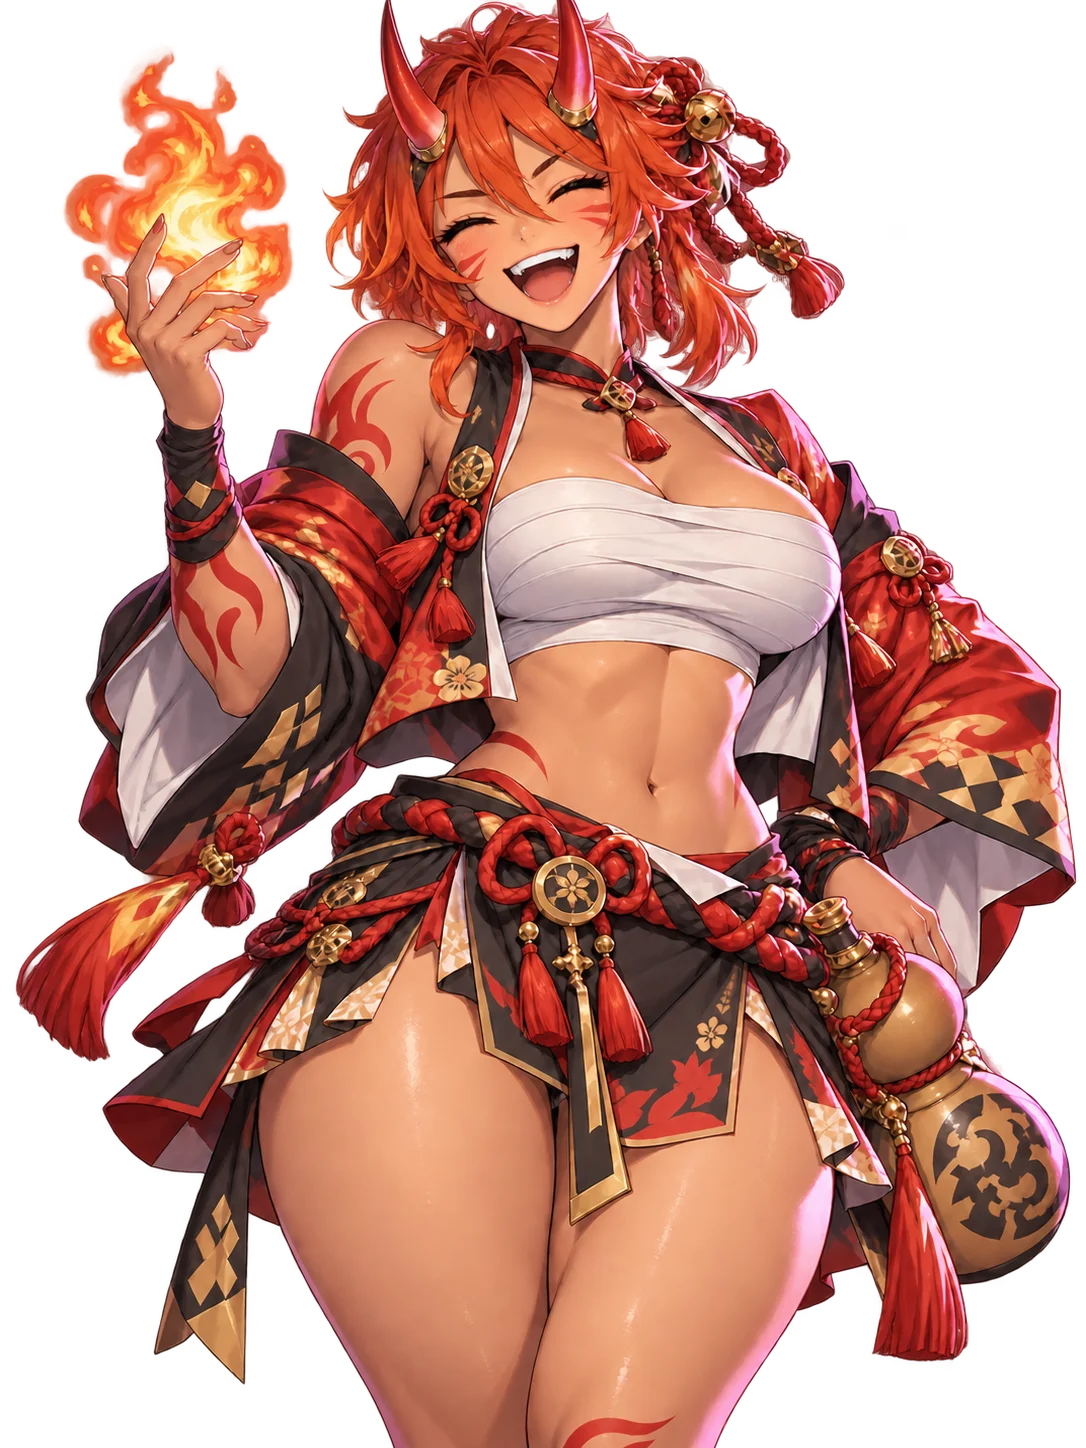
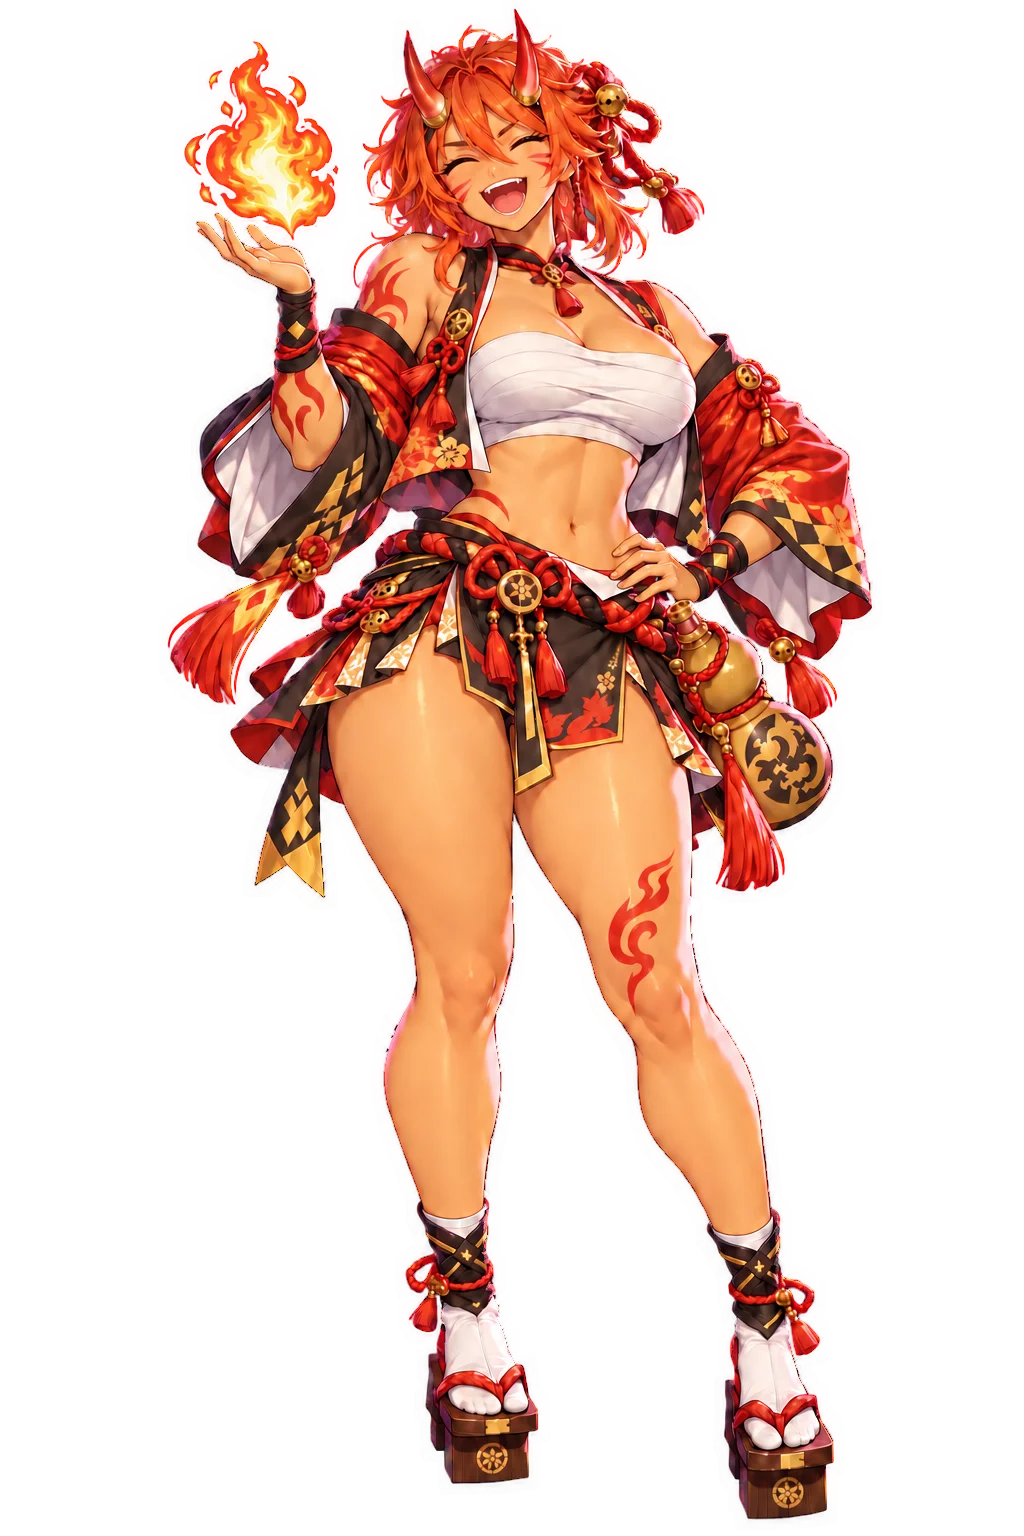
Kaede full-body portrait and 9 moods; blue-screen keying unmixes purple edges
Kaede's portrait (second round, approved by the owner) and all nine moods are
full body, generated through Codex on a blue screen; she joins FULL_BODY.

npm run art: on a blue screen, fire and red hair blended with the screen turn
purple; saturated purple within 8 px of clear screen is now unmixed too.
Smoke: wait for the heroine panel to close before the pan drag.

diff --git a/scripts/art-import.ts b/scripts/art-import.ts
@@ -104,7 +104,8 @@ if (jobs.length) {
           // pixels, up to 6 px away; a is P projected onto the G→F line. That keeps soft
           // hair edges and translucent cloth (see-through instead of green) and leaves no
           // green or olive fringe. Rule for the art: nothing on her may be the screen colour.
-          const R = 6;
+          const BLUE = C === 2;
+          const R = BLUE ? 12 : 6;
           const SOLID = 4; // greenness at or below this is her own colour…
           const N = W * H;
           const gr = new Int16Array(N);
@@ -112,18 +113,28 @@ if (jobs.length) {
           // …except next to the screen (within 3 px of clear screen), where a warm colour
           // blended with it (red hair + green = olive) is unmixed too. Gold and orange
           // (red well above the screen channel) and anything farther inside stay as drawn.
-          const near = new Uint8Array(N);
-          for (let y = 0; y < H; y++)
-            for (let x = 0; x < W; x++) {
-              if (gr[y * W + x] <= 40) continue;
-              for (let yy = Math.max(0, y - 3); yy <= Math.min(H - 1, y + 3); yy++)
-                for (let xx = Math.max(0, x - 3); xx <= Math.min(W - 1, x + 3); xx++) near[yy * W + xx] = 1;
-            }
+          const nearScreen = (r: number) => {
+            const near = new Uint8Array(N);
+            for (let y = 0; y < H; y++)
+              for (let x = 0; x < W; x++) {
+                if (gr[y * W + x] <= 40) continue;
+                for (let yy = Math.max(0, y - r); yy <= Math.min(H - 1, y + r); yy++)
+                  for (let xx = Math.max(0, x - r); xx <= Math.min(W - 1, x + r); xx++) near[yy * W + xx] = 1;
+              }
+            return near;
+          };
+          const near = nearScreen(3);
+          // On a blue screen, fire and red hair blended with it turn purple: bluer than
+          // green but not bluer than red, and several pixels deep where a flame is
+          // translucent. Within 8 px of clear screen that purple is unmixed as well.
+          // Rule for the art: a heroine keyed on blue has no saturated purple at her edges.
+          const wide = BLUE ? nearScreen(8) : null;
           const solid = new Uint8Array(N);
           for (let n = 0; n < N; n++) {
             const i = n * 4;
             const olive = near[n] && px[i + C] >= px[i] - 15 && px[i + C] > px[i + O2] + 20;
-            solid[n] = gr[n] <= SOLID && !olive ? 1 : 0;
+            const purple = wide !== null && wide[n] && px[i + 2] > px[i + 1] + 24 && px[i + 1] < 150;
+            solid[n] = gr[n] <= SOLID && !olive && !purple ? 1 : 0;
           }
           const out = new Uint8ClampedArray(px);
           for (let y = 0; y < H; y++) {

diff --git a/src/data/progression.ts b/src/data/progression.ts
@@ -47,7 +47,7 @@ export const GALLERY: GalleryItem[] = HEROINES.flatMap((h) =>
  * big views (home, chat, Bond, lightbox) show them whole. Remove the set once every
  * heroine has full-body art and make it the default framing in style.css.
  */
-export const FULL_BODY: ReadonlySet<string> = new Set(['scarlet', 'yuki']);
+export const FULL_BODY: ReadonlySet<string> = new Set(['scarlet', 'yuki', 'kaede']);
 
 /** Portrait used in shop, chat and roster. Mood variants: portrait-<mood>.webp */
 export function portraitFile(heroine: string, mood?: string): string {

diff --git a/scripts/smoke.ts b/scripts/smoke.ts
@@ -278,6 +278,7 @@ async function runView(browser: Awaited<ReturnType<typeof launch>>, base: string
   await page.locator('.hpanel').waitFor({ timeout: 3000 }); // tap still hits the right heroine when zoomed
   await shot('8-zoomed');
   await page.keyboard.press('Escape');
+  await page.locator('.hpanel').waitFor({ state: 'detached' });
   const box = (await page.locator('#stage').boundingBox())!;
   const from = { x: box.x + box.width / 2, y: box.y + box.height / 2 };
   const to = { x: from.x - 60, y: from.y - 60 };

diff --git a/docs/STATUS.md b/docs/STATUS.md
@@ -2,13 +2,13 @@
 
 > Living handoff document. **Every session updates this before finishing** (see AGENTS.md §3).
 
-**Version:** 0.4.0 · **Live:** https://ldallacqua.github.io/siren-siege/ · **Last updated:** 2026-09-29
+**Version:** 0.4.0 · **Live:** https://ldallacqua.github.io/siren-siege/ · **Last updated:** 2026-10-02
 
 ## What works
 
 - Full match loop on _Moonlit Shrine_: 20 waves, win/lose, results screen with Bond XP and unlock notices.
 - 4 heroines (Scarlet, Yuki, Kaede, Selene), 3 upgrade paths × 3 tiers, BTD6 crosspath rule, targeting modes, sell 70%.
-- Scarlet and Yuki have full-body art (portrait + all 9 moods); `npm run art` removes a green-screen background; agents can generate art via Codex CLI (ART_GUIDE §9).
+- Scarlet, Yuki and Kaede have full-body art (portrait + all 9 moods); `npm run art` removes a green-screen background (or a blue one, used for Kaede's fire); agents can generate art via Codex CLI (ART_GUIDE §9).
 - Enemies: 5 layered types, armored Iron Husk (immune to physical), Blight Colossus boss with HP bar.
 - Controls: speed 1×/2×/3×, auto-start, pause (auto-pauses when the tab is hidden), keyboard shortcuts.
 - Bond 1–10 (+2% attack rate/level), 8 chat episodes (2 per heroine, Bond 1 and 3), 20 gallery slots (Bond 2/4/6/8/10).
@@ -62,7 +62,16 @@
 
 ## Last session
 
-**2026-10-02 — Scarlet and Yuki full-body art generated via Codex CLI (Claude, cloud session)**
+**2026-10-02 — Kaede full-body portrait and 9 moods (Claude, local Windows session)**
+
+- Done: Kaede's full-body `portrait.webp` and all 9 moods, generated through Codex on a pure blue screen, and `'kaede'` added to `FULL_BODY`. The owner rejected the first candidate (her left arm had no upper arm or elbow; a stray digit and a purple patch inside the flame) and approved a second-round one: left hand on her hip with the elbow out, bare left shoulder, flame floating above an open palm. The moods were generated from that image with only the face changing; their silhouettes differ from the base by 0.45–0.56 % (0.24–0.29 % below the head). The owner has seen the base portrait but not the moods yet.
+- Checked in the built game at 390×844 and 1280×720: home, Messages, Bond, roster, profile, full art and a chat. On the phone home screen her flame hand sits behind the left rail tiles (her raised arm reaches further left than Scarlet's or Yuki's).
+- `npm run art`, blue screen: fire and red hair blended with blue turn purple, which the keyer kept as her own colour (purple fringe on the flame). On a blue screen, saturated purple within 8 px of clear screen is now unmixed too, and the search for her nearest solid colour reaches 12 px. Green-screen behaviour is unchanged. Rule for the art: a heroine keyed on blue has no saturated purple at her edges.
+- `npm run smoke` failed here at all three viewports on "a pan drag must not select a heroine": the test pressed Escape and dragged without waiting for the heroine panel to close. It now waits for the panel to detach, and passes.
+- Local Windows notes: the art and smoke scripts run with `CHROME_PATH` pointing at Edge (`C:\Program Files (x86)\Microsoft\Edge\Application\msedge.exe`); Codex CLI is installed and already signed in on this machine, and an image took about 2 minutes. `git push` here needs `git -c "credential.helper=!gh auth git-credential" push` (no stored HTTPS credentials) and a git identity (`-c user.name=… -c user.email=…`; none is configured globally).
+- Not done: Selene is still thighs-up; the README images still show Kaede's old art (`npm run shots` waits for Selene); Kaede's chibi and gallery are unchanged.
+
+**Previously, 2026-10-02 — Scarlet and Yuki full-body art generated via Codex CLI (Claude, cloud session)**
 
 - Owner asked whether an agent could use his ChatGPT plan to make the art. Answer: Codex CLI signs in with the plan (`codex login --device-auth`) and has image generation; workflow documented in `docs/ART_GUIDE.md` §9. Owner also asked for **full-body** portraits so legs are never cropped.
 - Done: Scarlet's new `portrait.webp` (full body, approved by the owner; second take fixed her trigger fingers) and all 9 moods, generated with her portrait as reference on a flat green background. Silhouettes differ from the base by < 0.5 %, so she doesn't jump between moods in chats.
@@ -74,6 +83,6 @@
 
 ## Next up
 
-1. **Kaede, in progress:** candidate full-body portraits are on branch `wip/kaede-art` (`wip-art/kaede/README.md` says what's next: key the blue-screen one, check the flame, show the owner, then moods + `FULL_BODY`). `npm run art` now keys blue as well as green; use blue for fire/yellow heroines. Then **Full-body art for Selene** (owner wants them all; same Codex workflow, §9 of ART_GUIDE; add each id to `FULL_BODY`; when all four are done, drop the set and make full body the default framing; re-run `npm run shots` so the README shows the new art). Then **Owner check:** Messages → a heroine → Gift / Diary / Talk. Then **owner playtest of the upgrade tree and the bigger heroines** (is 1.5 tiles right? `CHIBI_H` in `BattleScene.ts`; does the map panel sit on the right side of her?) and **install the PWA** on the phone (Add to Home Screen). Then **owner playtest of the skill effects** (upgrade each path to 3 with `?dev`; are signatures readable, too flashy at 3× speed?) and the longer music. Then **owner playtest of music + motion** (is the lofi too quiet/loud? any animation that feels slow or annoying? Tweak durations in the motion block of `style.css`). Then **owner playtest of the lobby + Frostveil Pass**, then the previous items. **Owner playtest (earlier):** read a Bond 5+ chat, watch combat at tier 3, listen to the new sounds. Tune in `Vfx.ts` / `sound.ts`.
+1. **Owner check of Kaede's 9 moods** (open a Kaede chat; any face he dislikes is one Codex image to redo, with `public/art/kaede/portrait.webp` as the reference, on blue). Then **Full-body art for Selene** (the last one; same Codex workflow, §9 of ART_GUIDE, green screen; add her id to `FULL_BODY`; then drop the set and make full body the default framing; re-run `npm run shots` so the README shows the new art). Then **Owner check:** Messages → a heroine → Gift / Diary / Talk. Then **owner playtest of the upgrade tree and the bigger heroines** (is 1.5 tiles right? `CHIBI_H` in `BattleScene.ts`; does the map panel sit on the right side of her?) and **install the PWA** on the phone (Add to Home Screen). Then **owner playtest of the skill effects** (upgrade each path to 3 with `?dev`; are signatures readable, too flashy at 3× speed?) and the longer music. Then **owner playtest of music + motion** (is the lofi too quiet/loud? any animation that feels slow or annoying? Tweak durations in the motion block of `style.css`). Then **owner playtest of the lobby + Frostveil Pass**, then the previous items. **Owner playtest (earlier):** read a Bond 5+ chat, watch combat at tier 3, listen to the new sounds. Tune in `Vfx.ts` / `sound.ts`.
 2. **Art:** more mood portraits now matter more (20 chats use all 9 moods), and scene backgrounds could become real art later (`.scene-*` in `style.css`).
 3. **B-03b perf check** (Vfx adds particles; cap is 700), then **B-04 barks**, **B-12 age gate**, **B-05 tiers 4–5**.

diff --git a/docs/ART_GUIDE.md b/docs/ART_GUIDE.md
@@ -162,11 +162,14 @@ Character: Yuki Frostveil, "the Snow Witch". A 24-year-old adult yuki-onna (snow
 
 ```
 Character: Kaede Emberhorn, "the Oni Flame Dancer". A 29-year-old adult oni woman.
-- Short-to-mid-length messy orange-red hair, two red horns, amber eyes, athletic
-  curvy build, sun-kissed skin with red tribal markings on arms and cheeks.
-- Outfit: cropped red-and-black festival happi jacket worn open over a white sarashi
-  chest wrap, short hakama, tabi socks and geta sandals, sake gourd on her hip.
-- Magic: flames dancing in her hand.
+- Short-to-mid-length messy orange-red hair with red braided cords and gold bells,
+  two red horns, amber eyes, athletic curvy build, sun-kissed skin with red tribal
+  markings on her arms, cheeks and one thigh.
+- Outfit: cropped red-and-black festival happi jacket with gold patterns worn open
+  and off the shoulders over a white sarashi chest wrap, short black-and-red layered
+  skirt with a red-and-black braided rope belt and tassels, tabi socks and geta
+  sandals, sake gourd on her hip.
+- Magic: a flame floating above her open palm (solid and opaque, clear of her hand).
 - Signature color: ember-orange (#ff7a1a), with red and black.
 - Personality/default expression: loud, cheerful, cocky; big grin and a wink.
 ```
@@ -345,6 +348,6 @@ OpenAI's Codex CLI signs in with the owner's ChatGPT plan (no API key) and has a
    ```
    codex exec --skip-git-repo-check -s workspace-write -C <dir> -i ref.png -- "Use your image generation tool to create ONE image, then save it in this directory as smile.png. …" < /dev/null
    ```
-   Each image takes about 5–7 minutes; three in parallel works. Ask for the green background (§5.1 PORTRAIT RULES) and say the body must stay exactly in place for moods.
+   Each image takes about 5–7 minutes (about 2 on the owner's PC); three in parallel works. Ask for the green background (§5.1 PORTRAIT RULES) and say the body must stay exactly in place for moods. For a heroine with fire or yellow (Kaede), ask for pure blue (#0000FF) instead, and for a solid, opaque flame that floats clear of her hand: a see-through flame lets the screen colour into the fire.
 3. Show the owner the main portrait before making moods from it. Check moods line up (Scarlet's differed from the base by < 0.5 % of the silhouette).
 4. Copy the PNGs into `public/art/<id>/` with their final names and run `npm run art` (green is removed there), then `npm run smoke` and look at home, profile, chat and Bond screenshots.

diff --git a/docs/DECISIONS.md b/docs/DECISIONS.md
@@ -106,3 +106,4 @@ The smoke test took ~11 min on the 2-core GitHub runner (software WebGL) and ran
 
 Owner wanted no cropped legs. Portraits are now generated full body (2:3), but the owner wants the upper-body focus on screen, so the game frames it: home and profile head to mid-thigh (the image is ~1.6× the visible height, anchored at the top, fading out at the bottom, so any screen shape cuts her with a fade rather than a hard edge), small cards and avatars closer with CSS `scale` (Safari-safe, unlike `object-view-box`); only the lightbox shows her whole. A `FULL_BODY` set marks converted heroines so old thighs-up art keeps its framing during the transition. Generators rarely return real transparency, so prompts ask for flat #00FF00 and `npm run art` keys it (no new image dependency; it runs in the smoke-test Chromium). Codex CLI was chosen over an API key or browser automation because it uses the owner's existing ChatGPT plan and is an official OpenAI client (ChatGPT web automation would break its terms).
 Update (same day): art is **network-first** in the service worker. Replaced art keeps its file name, so stale-while-revalidate showed the old waist-up Yuki inside the new full-body framing for a whole visit (owner's phone). Cache bumped to `siren-siege-v2` to clear old copies; the HTTP cache still makes repeat loads cheap.
+Update (same day, Kaede): heroines with fire or yellow are generated on pure blue instead, because green left a yellow-green fringe on the flame. Blue has its own trap: orange and red blended with blue turn purple, which is not "bluer than red", so the keyer kept it as her colour. On a blue screen the keyer now also unmixes saturated purple (blue above green by 24, green under 150) within 8 px of clear screen. The distance limit is deliberate: Kaede has real maroon and lilac shading inside her jacket that must stay. The prompt side matters as much: ask for a solid, opaque flame floating clear of her hand, since a translucent flame has the screen colour painted into it.

diff --git a/docs/ART_ASSETS.md b/docs/ART_ASSETS.md
@@ -17,6 +17,12 @@ All paths below are relative to `public/art/`.
 
 The owner explicitly reduced the full 64-image brief to an MVP pass. Other expressions intentionally fall back to the matching main portrait; gallery slots 2–5 retain their placeholders. Do not treat the remaining 45 images as a release blocker.
 
+## Full-body sets (2026-10-02)
+
+Scarlet, Yuki and Kaede now have a full-body `portrait.webp` and all nine `portrait-<mood>.webp` (1024×1536 with alpha), replacing the thighs-up files above. They were generated through the Codex CLI (ART_GUIDE §9) and keyed by `npm run art`: Scarlet and Yuki on green, Kaede on blue because of her flame. Each mood was generated from the approved portrait with only the face changing. Selene still has the MVP files.
+
+Kaede's approved design, for future art of her: left hand on her hip with the elbow out, the happi jacket off both shoulders, a flame floating above her open right palm, a layered black-and-red skirt with a braided rope belt, a red marking on her left thigh, the sake gourd hanging at her left hip.
+
 ## Visual reference and prompt set
 
 Use each committed `portrait.webp` as the identity reference for future art. Follow [ART_DIRECTION.md](ART_DIRECTION.md) and [ART_GUIDE.md](ART_GUIDE.md), with these production choices:
